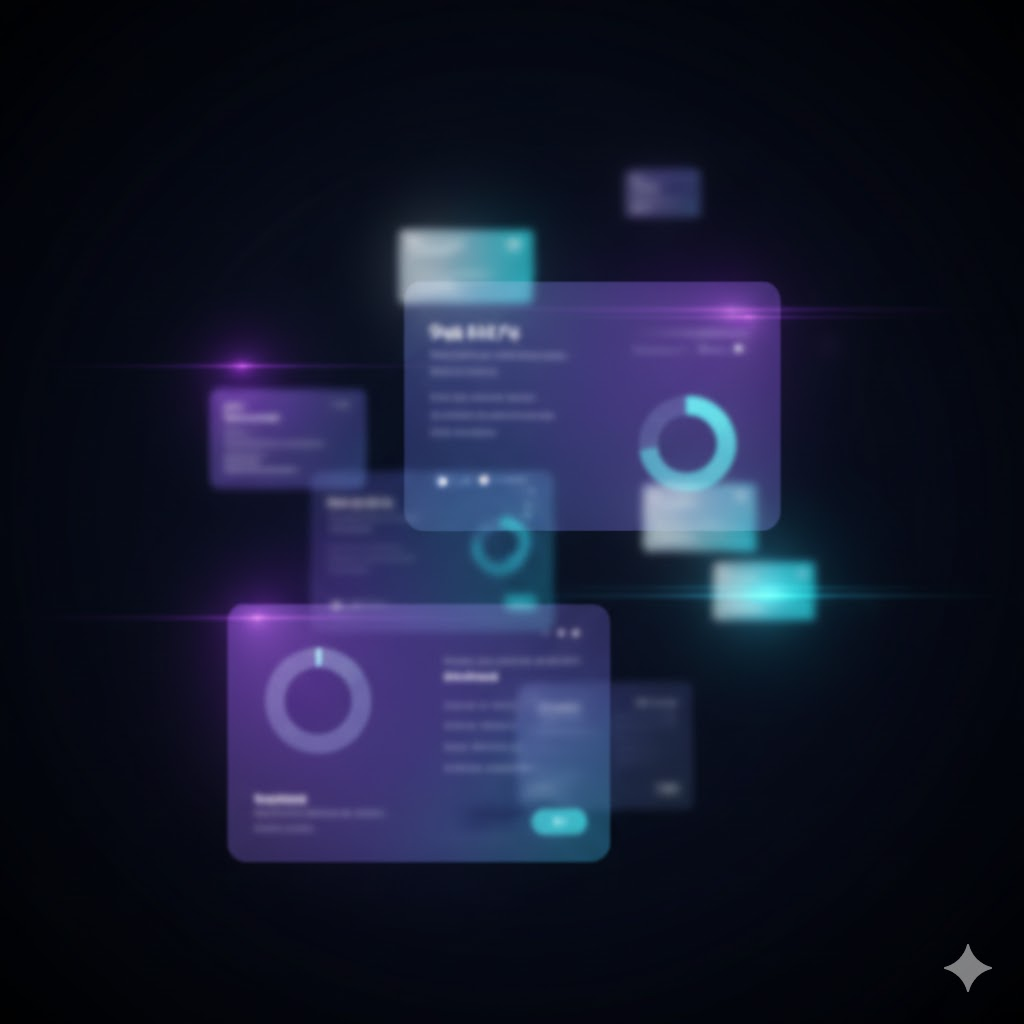
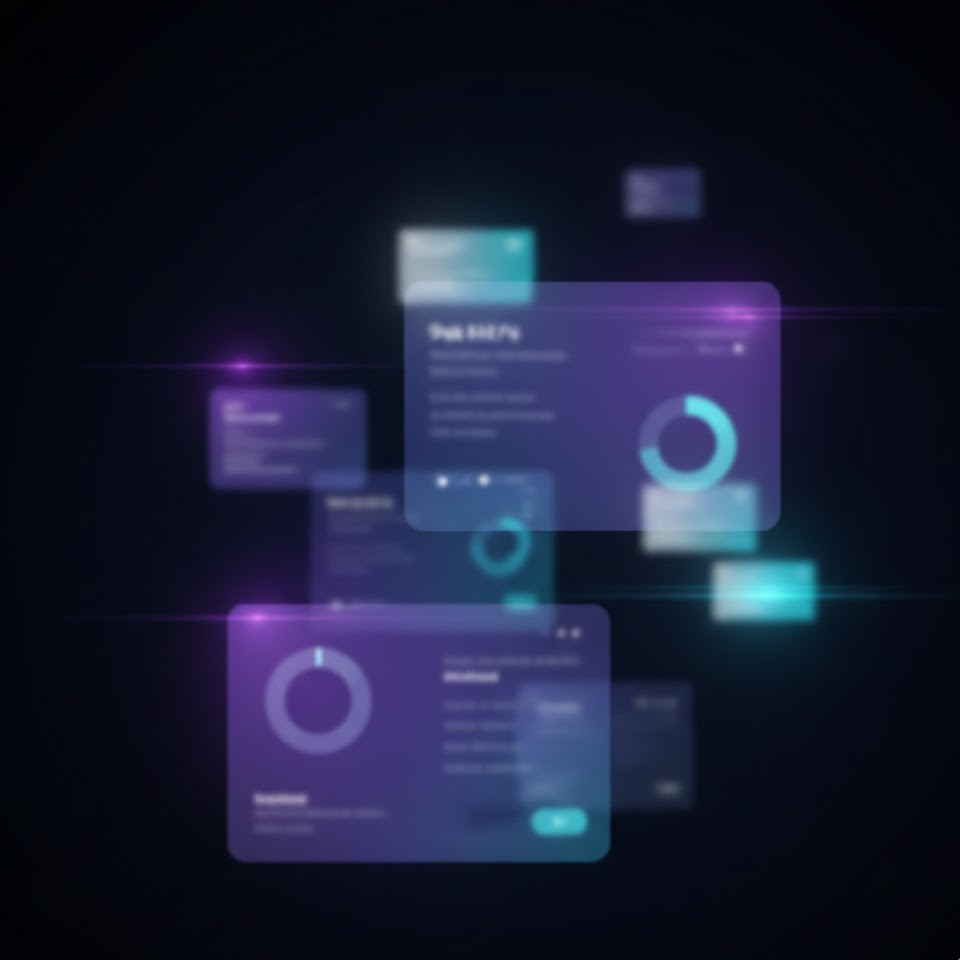
fix: home page mobile animation

Changed region(s): [[0.1875, 0.1562, 0.9062, 0.9062], [0.9062, 0.9062, 0.9688, 0.9688]]

diff --git a/client/src/pages/Home/HowItWorksSection/index.tsx b/client/src/pages/Home/HowItWorksSection/index.tsx
@@ -1,16 +1,17 @@
 import AddCircleOutlineIcon from '@mui/icons-material/AddCircleOutline';
 import DashboardIcon from '@mui/icons-material/Dashboard';
 import TuneIcon from '@mui/icons-material/Tune';
-import { alpha, Box, useTheme } from '@mui/material';
-import Typography from '@mui/material/Typography';
+import { useTheme } from '@mui/material';
 import { motion, useInView } from 'framer-motion';
 import { useEffect, useRef, useState } from 'react';
 import { useTranslation } from 'react-i18next';
 
 import Column from '@/components/shared/layout/containers/Column';
-import Row from '@/components/shared/layout/containers/Row';
+import Header from '@/pages/Home/HowItWorksSection/Header';
 import ProcessAnimation from '@/pages/Home/HowItWorksSection/ProcessAnimation';
-import ProcessStep from '@/pages/Home/HowItWorksSection/ProcessStep';
+import StepsMobile from '@/pages/Home/HowItWorksSection/StepsMobile';
+import StepsPC from '@/pages/Home/HowItWorksSection/StepsPC';
+import { HowItWorksStepProps } from '@/pages/Home/HowItWorksSection/types';
 
 const HowItWorksSection = () => {
   const { t } = useTranslation('home');
@@ -27,7 +28,7 @@ const HowItWorksSection = () => {
     return () => clearInterval(timer);
   }, []);
 
-  const steps = [
+  const steps: HowItWorksStepProps[] = [
     {
       icon: <TuneIcon />,
       title: t('howItWorks.step2.title'),
@@ -55,41 +56,7 @@ const HowItWorksSection = () => {
       spacing={0}
       sx={{ px: { xs: 2, md: 8 }, py: { xs: 8, md: 12 }, position: 'relative' }}
     >
-      <Column spacing={1.5} alignItems="center" sx={{ mb: { xs: 5, md: 6 }, textAlign: 'center' }}>
-        <motion.div
-          initial={{ opacity: 0, y: 20 }}
-          animate={isInView ? { opacity: 1, y: 0 } : { opacity: 0, y: 20 }}
-          transition={{ duration: 0.6 }}
-        >
-          <Typography
-            variant="h2"
-            sx={{
-              fontSize: { xs: '1.8rem', md: '2.8rem' },
-              fontWeight: 700,
-              color: 'text.primary',
-            }}
-          >
-            {t('howItWorks.sectionTitle')}
-          </Typography>
-        </motion.div>
-        <motion.div
-          initial={{ opacity: 0, y: 20 }}
-          animate={isInView ? { opacity: 1, y: 0 } : { opacity: 0, y: 20 }}
-          transition={{ duration: 0.6, delay: 0.15 }}
-        >
-          <Typography
-            variant="body1"
-            sx={{
-              color: 'text.secondary',
-              maxWidth: 560,
-              lineHeight: 1.8,
-              fontSize: { xs: '0.95rem', md: '1.05rem' },
-            }}
-          >
-            {t('howItWorks.sectionSubtitle')}
-          </Typography>
-        </motion.div>
-      </Column>
+      <Header isInView={isInView} />
       <motion.div
         initial={{ opacity: 0 }}
         animate={isInView ? { opacity: 1 } : { opacity: 0 }}
@@ -97,47 +64,8 @@ const HowItWorksSection = () => {
       >
         <ProcessAnimation activeStage={activeStage} />
       </motion.div>
-      <Row
-        spacing={{ xs: 0, md: 3 }}
-        sx={{
-          flexDirection: { xs: 'column', md: 'row' },
-          rowGap: { xs: 4 },
-          alignItems: { xs: 'flex-start', md: 'flex-start' },
-          maxWidth: 960,
-          mx: 'auto',
-        }}
-      >
-        {steps.map((step, index) => (
-          <Row
-            key={step.title}
-            sx={{ flex: 1, alignItems: 'flex-start', flexDirection: { xs: 'column', md: 'row' } }}
-          >
-            <motion.div
-              initial={{ opacity: 0, y: 40 }}
-              animate={isInView ? { opacity: 1, y: 0 } : { opacity: 0, y: 40 }}
-              transition={{ duration: 0.7, ease: 'easeOut', delay: 0.4 + index * 0.18 }}
-              style={{ flex: 1, minWidth: 0 }}
-            >
-              <ProcessStep {...step} isActive={activeStage === index} />
-            </motion.div>
-            {index < steps.length - 1 && (
-              <Box
-                sx={{
-                  display: { xs: 'none', md: 'block' },
-                  width: 32,
-                  height: 2,
-                  flexShrink: 0,
-                  alignSelf: 'flex-start',
-                  mt: 10,
-                  mx: 1,
-                  background: `linear-gradient(90deg, ${alpha(theme.palette.primary.main, 0.4)}, ${alpha(theme.palette.secondary.main, 0.4)})`,
-                  borderRadius: 1,
-                }}
-              />
-            )}
-          </Row>
-        ))}
-      </Row>
+      <StepsMobile steps={steps} activeStage={activeStage} />
+      <StepsPC steps={steps} activeStage={activeStage} isInView={isInView} />
     </Column>
   );
 };

diff --git a/client/src/pages/Home/HowItWorksSection/StepsPC.tsx b/client/src/pages/Home/HowItWorksSection/StepsPC.tsx
@@ -1,0 +1,66 @@
+import { alpha, Box, useTheme } from '@mui/material';
+import { motion } from 'framer-motion';
+
+import Row from '@/components/shared/layout/containers/Row';
+import ProcessStep from '@/pages/Home/HowItWorksSection/ProcessStep';
+import { HowItWorksStepProps } from '@/pages/Home/HowItWorksSection/types';
+
+interface StepsPCProps {
+  steps: HowItWorksStepProps[];
+  activeStage: number;
+  isInView: boolean;
+}
+
+const StepsPC = ({ steps, activeStage, isInView }: StepsPCProps) => {
+  const theme = useTheme();
+
+  return (
+    <Row
+      spacing={{ xs: 0, md: 3 }}
+      sx={{
+        display: { xs: 'none', md: 'flex' },
+        flexDirection: 'row',
+        alignItems: 'flex-start',
+        maxWidth: 960,
+        mx: 'auto',
+        mt: { md: 4 },
+      }}
+    >
+      {steps.map((step, index) => (
+        <Row
+          key={step.title}
+          sx={{
+            flex: 1,
+            alignItems: 'flex-start',
+          }}
+        >
+          <motion.div
+            initial={{ opacity: 0, y: 40 }}
+            animate={isInView ? { opacity: 1, y: 0 } : { opacity: 0, y: 40 }}
+            transition={{ duration: 0.7, ease: 'easeOut', delay: 0.4 + index * 0.18 }}
+            style={{ flex: 1, minWidth: 0 }}
+          >
+            <ProcessStep {...step} isActive={activeStage === index} />
+          </motion.div>
+          {index < steps.length - 1 && (
+            <Box
+              sx={{
+                display: 'block',
+                width: 32,
+                height: 2,
+                flexShrink: 0,
+                alignSelf: 'flex-start',
+                mt: 10,
+                mx: 1,
+                background: `linear-gradient(90deg, ${alpha(theme.palette.primary.main, 0.4)}, ${alpha(theme.palette.secondary.main, 0.4)})`,
+                borderRadius: 1,
+              }}
+            />
+          )}
+        </Row>
+      ))}
+    </Row>
+  );
+};
+
+export default StepsPC;

diff --git a/client/src/pages/Home/HowItWorksSection/Header.tsx b/client/src/pages/Home/HowItWorksSection/Header.tsx
@@ -1,0 +1,53 @@
+import Typography from '@mui/material/Typography';
+import { motion } from 'framer-motion';
+import { useTranslation } from 'react-i18next';
+
+import Column from '@/components/shared/layout/containers/Column';
+
+interface HowItWorksHeaderProps {
+  isInView: boolean;
+}
+
+const Header = ({ isInView }: HowItWorksHeaderProps) => {
+  const { t } = useTranslation('home');
+
+  return (
+    <Column spacing={1.5} alignItems="center" sx={{ mb: { xs: 5, md: 6 }, textAlign: 'center' }}>
+      <motion.div
+        initial={{ opacity: 0, y: 20 }}
+        animate={isInView ? { opacity: 1, y: 0 } : { opacity: 0, y: 20 }}
+        transition={{ duration: 0.6 }}
+      >
+        <Typography
+          variant="h2"
+          sx={{
+            fontSize: { xs: '1.8rem', md: '2.8rem' },
+            fontWeight: 700,
+            color: 'text.primary',
+          }}
+        >
+          {t('howItWorks.sectionTitle')}
+        </Typography>
+      </motion.div>
+      <motion.div
+        initial={{ opacity: 0, y: 20 }}
+        animate={isInView ? { opacity: 1, y: 0 } : { opacity: 0, y: 20 }}
+        transition={{ duration: 0.6, delay: 0.15 }}
+      >
+        <Typography
+          variant="body1"
+          sx={{
+            color: 'text.secondary',
+            maxWidth: 560,
+            lineHeight: 1.8,
+            fontSize: { xs: '0.95rem', md: '1.05rem' },
+          }}
+        >
+          {t('howItWorks.sectionSubtitle')}
+        </Typography>
+      </motion.div>
+    </Column>
+  );
+};
+
+export default Header;

diff --git a/client/src/pages/Home/HowItWorksSection/ProcessStep.tsx b/client/src/pages/Home/HowItWorksSection/ProcessStep.tsx
@@ -16,8 +16,12 @@ const ProcessStep = ({ icon, title, description, accentColor, isActive }: Proces
   const theme = useTheme();
 
   return (
-    <Column spacing={2} alignItems="flex-start" sx={{ flex: 1, minWidth: 0 }}>
-      <Row spacing={2} alignItems={'center'}>
+    <Column
+      spacing={2}
+      alignItems={{ xs: 'center', md: 'flex-start' }}
+      sx={{ flex: 1, minWidth: 0, textAlign: { xs: 'center', md: 'start' } }}
+    >
+      <Row spacing={2} alignItems={'center'} justifyContent={{ xs: 'center', md: 'flex-start' }}>
         <Column
           alignItems="center"
           justifyContent="center"
@@ -42,7 +46,7 @@ const ProcessStep = ({ icon, title, description, accentColor, isActive }: Proces
           {title}
         </Typography>
       </Row>
-      <Column spacing={1}>
+      <Column spacing={1} alignItems={{ xs: 'center', md: 'flex-start' }}>
         <Typography
           variant="body2"
           sx={{ color: 'text.secondary', lineHeight: 1.8, maxWidth: 320 }}

diff --git a/client/src/pages/Home/HowItWorksSection/StepsMobile.tsx b/client/src/pages/Home/HowItWorksSection/StepsMobile.tsx
@@ -1,0 +1,36 @@
+import { Box } from '@mui/material';
+import { AnimatePresence, motion } from 'framer-motion';
+
+import ProcessStep from '@/pages/Home/HowItWorksSection/ProcessStep';
+import { HowItWorksStepProps } from '@/pages/Home/HowItWorksSection/types';
+
+interface StepsMobileProps {
+  steps: HowItWorksStepProps[];
+  activeStage: number;
+}
+
+const StepsMobile = ({ steps, activeStage }: StepsMobileProps) => (
+  <Box
+    sx={{
+      display: { xs: 'block', md: 'none' },
+      width: '100%',
+      maxWidth: 300,
+      height: '140px',
+      mx: 'auto',
+    }}
+  >
+    <AnimatePresence mode="wait">
+      <motion.div
+        key={activeStage}
+        initial={{ opacity: 0, x: -16 }}
+        animate={{ opacity: 1, x: 0 }}
+        exit={{ opacity: 0, x: 16 }}
+        transition={{ duration: 0.28 }}
+      >
+        <ProcessStep {...steps[activeStage]} isActive={true} />
+      </motion.div>
+    </AnimatePresence>
+  </Box>
+);
+
+export default StepsMobile;

diff --git a/client/src/pages/Home/HeroSection/HeroContent/index.tsx b/client/src/pages/Home/HeroSection/HeroContent/index.tsx
@@ -11,7 +11,7 @@ import TrustBadges from '@/pages/Home/HeroSection/HeroContent/TrustBadges';
 const fadeUp = (delay = 0) => ({
   initial: { opacity: 0, y: 28 },
   animate: { opacity: 1, y: 0 },
-  transition: { duration: 0.65, ease: 'easeOut', delay },
+  transition: { duration: 0.65, ease: 'easeOut' as const, delay },
 });
 
 const HeroContent = () => {

diff --git a/client/src/pages/Home/HowItWorksSection/types.ts b/client/src/pages/Home/HowItWorksSection/types.ts
@@ -1,0 +1,8 @@
+import { ReactElement } from 'react';
+
+export interface HowItWorksStepProps {
+  icon: ReactElement;
+  title: string;
+  description: string;
+  accentColor: string;
+}

diff --git a/client/src/pages/Home/HowItWorksSection/ProcessAnimation.tsx b/client/src/pages/Home/HowItWorksSection/ProcessAnimation.tsx
@@ -75,7 +75,6 @@ const ProcessAnimation = ({ activeStage }: ProcessAnimationProps) => {
           />
         ))}
       </Row>
-
       <Box
         sx={{
           width: '100%',
